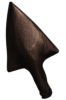
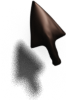
cursor mejor

diff --git a/Carom/src/Game.cpp b/Carom/src/Game.cpp
@@ -81,7 +81,7 @@ void Game::run()
     sdlut.showCursor();
 
     SDL_Surface *surface = IMG_Load("../../resources/images/cursor.png");
-    SDL_Cursor *cursor = SDL_CreateColorCursor(surface, 0, 0);
+    SDL_Cursor *cursor = SDL_CreateColorCursor(surface, 33, 0);
     SDL_SetCursor(cursor);
 
 	// reset the time before starting - so we calculate correct delta-time in the first iteration
